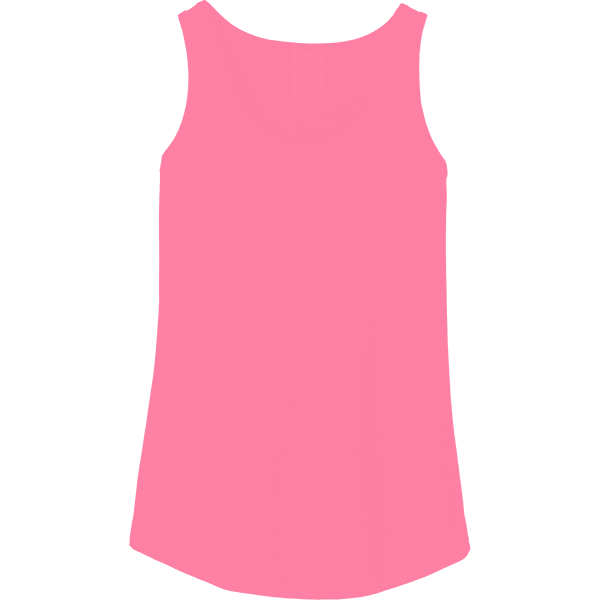
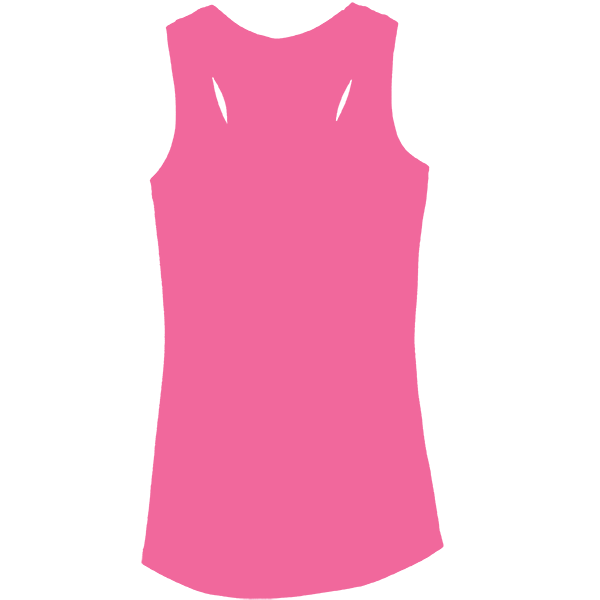
created base, highlight, shadow images for all items and added to designer

diff --git a/designer/designer.html b/designer/designer.html
@@ -117,72 +117,61 @@ git pull https://github.com/mrected/Central-Ave-Shirt-Co.git
       <div id="designer" class="fpd-shadow-2 fpd-sidebar fpd-tabs fpd-tabs-side fpd-top-actions-centered fpd-bottom-actions-centered fpd-views-inside-left fpd-grid-columns-2"">
 
         <div class="fpd-product" title="Front" data-thumbnail="../images/products/tshirtBlue.png" id="designShirt">
-          <img src="images/designerImages/tshirt-base.png" title="Base" data-parameters='{"x":500, "y":375, "colors": "#7AB9E6, #DDDCE2, #B9B9BE, #511F28, #ECB2CF, #7A212F, #7B98D8, #32383B, #549556, #293B35, #483230, #595959, #EFC358, #512B34, #483230, #3B4357, #343272, #813846, #606FC8, #D06FA3, #ACBCE2, #898687, #EEE8D4, #4B84BA, #BA5783, #AB9987, #3B4C8F, #722E39, #32306E, #C75F28, #434439, #F3DF78, #FDFDFC, #39657A, #475463, #D1D2D6, #DDE562, #DF678F, #E16F52, #7ACF65, #4B82AB, #253954","colorLinkGroup": "Base", "price": 20}'>
+          <img src="images/designerImages/tshirt-base.png" title="Base" data-parameters='{"x":500, "y":375, "colors": "#7AB9E6, #DDDCE2, #B9B9BE, #511F28, #ECB2CF, #7A212F, #7B98D8, #32383B, #549556, #293B35, #483230, #595959, #EFC358, #512B34, #483230, #3B4357, #343272, #813846, #606FC8, #D06FA3, #ACBCE2, #898687, #EEE8D4, #4B84BA, #BA5783, #AB9987, #3B4C8F, #722E39, #32306E, #C75F28, #434439, #F3DF78, #FDFDFC, #39657A, #475463, #D1D2D6, #DDE562, #DF678F, #E16F52, #7ACF65, #4B82AB, #253954","colorLinkGroup": "Base", "price": 18}'>
           <img src="images/designerImages/tshirt-highlights.png" title="Hightlights" data-parameters='{"x":500, "y":375}'>
           <img src="images/designerImages/tshirt-shadows.png" title="Shadow" data-parameters='{"x":500, "y":375}'>
             <div class="fpd-product" title="Back" data-thumbnail="../images/products/tshirtBlue-back.png">
-              <img src="images/designerImages/tshirt-back-base.png" title="Base" data-parameters='{"x":500, "y":375, "colorLinkGroup": "Base", "price": 20}'>
+              <img src="images/designerImages/tshirt-back-base.png" title="Base" data-parameters='{"x":500, "y":375, "colorLinkGroup": "Base", "price": 18}'>
               <img src="images/designerImages/tshirt-back-highlights.png" title="Hightlights" data-parameters='{"x":500, "y":375}'>
               <img src="images/designerImages/tshirt-back-shadows.png" title="Shadows" data-parameters='{"x":500, "y":375}'>
             </div>
         </div>
 
-        <div class="fpd-product" title="Front" data-thumbnail="../images/products/lsGray.png" id="designLs">
-          <img src="images/designerImages/ls-base.png" title="Base" data-parameters='{"x":500, "y":375, "colors": "#4a4b4e,#756cb3,#cea55e,#b6ccdf,#723545,#72869c,#e17097,#678b8c,#6e7072,#b34254,#824c52,#82a47b,#83bcd1,#f4f4f4","colorLinkGroup": "Base", "price": 25}'>
-          <img src="images/designerImages/ls-highlights.png" title="Hightlights" data-parameters='{"x":500, "y":375}'>
-          <img src="images/designerImages/ls-shadows.png" title="Shadow" data-parameters='{"x":500, "y":375}'>
-            <div class="fpd-product" title="Back" data-thumbnail="../images/products/lsGray.png">
-              <img src="images/designerImages/ls-back-base.png" title="Base" data-parameters='{"x":500, "y":375, "colorLinkGroup": "Base", "price": 25}'>
-              <img src="images/designerImages/ls-back-highlights.png" title="Hightlights" data-parameters='{"x":500, "y":375}'>
-              <img src="images/designerImages/ls-back-shadows.png" title="Shadows" data-parameters='{"x":500, "y":375}'>
+        <div class="fpd-product" title="Front" data-thumbnail="../images/products/ringspunRed.png" id="designRST">
+          <img src="images/designerImages/ringspun-base.png" title="Base" data-parameters='{"x":500, "y":375, "colors": "#6186D4, #F0F0F1, #523D7A, #F87B3F, #464E42, #1E2133, #FA5D85, #425F8F, #A7A5A5, #9DD54D, #FAF683, #4B8239, #A7C8E4, #94424E, #645A96, #3F4245, #404B59, #53906D, #58585C, #8F3D48, #45A1DD, #524745, #848484, #6C6D6D, #EDA342, #30544E, #523E53, #263F6D, #8B1621, #232323, #15A0C9","colorLinkGroup": "Base", "price": 20}'>
+          <img src="images/designerImages/ringspun-highlights.png" title="Hightlights" data-parameters='{"x":500, "y":375}'>
+          <img src="images/designerImages/ringspun-shadows.png" title="Shadow" data-parameters='{"x":500, "y":375}'>
+            <div class="fpd-product" title="Back" data-thumbnail="../images/products/ringspunRed-back.png">
+              <img src="images/designerImages/ringspun-back-base.png" title="Base" data-parameters='{"x":500, "y":375, "colorLinkGroup": "Base", "price": 20}'>
+              <img src="images/designerImages/ringspun-back-highlights.png" title="Hightlights" data-parameters='{"x":500, "y":375}'>
+              <img src="images/designerImages/ringspun-back-shadows.png" title="Shadows" data-parameters='{"x":500, "y":375}'>
             </div>
         </div>
 
         <div class="fpd-product" title="Front" data-thumbnail="../images/products/tankPink.png" id="designTank">
-          <img src="images/designerImages/tank-base.png" title="Base" data-parameters='{"x":500, "y":375, "colors": "#959698,#4b4949,#2a2a2a,#33384c,#487ea8,#c1fe83,#e2799e,#e4fe82,#8e293f,#4f67b0,#f4f4f4","colorLinkGroup": "Base", "price": 10}'>
+          <img src="images/designerImages/tank-base.png" title="Base" data-parameters='{"x":500, "y":375, "colors": "#F1689B, #F3F3F3, #5975C4, #CF525C, #7362A1, #566276, #989898, #4A4D4D, #54C5F5","colorLinkGroup": "Base", "price": 21}'>
           <img src="images/designerImages/tank-highlights.png" title="Hightlights" data-parameters='{"x":500, "y":375}'>
           <img src="images/designerImages/tank-shadows.png" title="Shadow" data-parameters='{"x":500, "y":375}'>
             <div class="fpd-product" title="Back" data-thumbnail="../images/products/tankPink-back.png">
-              <img src="images/designerImages/tank-back-base.png" title="Base" data-parameters='{"x":500, "y":375, "colorLinkGroup": "Base", "price": 20}'>
+              <img src="images/designerImages/tank-back-base.png" title="Base" data-parameters='{"x":500, "y":375, "colorLinkGroup": "Base", "price": 21}'>
               <img src="images/designerImages/tank-back-highlights.png" title="Hightlights" data-parameters='{"x":500, "y":375}'>
               <img src="images/designerImages/tank-back-shadows.png" title="Shadows" data-parameters='{"x":500, "y":375}'>
             </div>
         </div>
 
-        <div class="fpd-product" title="Front" data-thumbnail="../images/products/poloCoastalBlue.png" id="designPolo">
-          <img src="images/designerImages/polo-base.png" title="Base" data-parameters='{"x":500, "y":375, "colors": "#739ecb,#40252e,#4c4a4a,#394543,#303242,#e0962b,#272727,#49815c,#90a5d3,#aac977,#7c7a7a,#4a3e78,#4558a3,#9e9da7,#f4f4f4","colorLinkGroup": "Base", "price": 40}'>
-          <img src="images/designerImages/polo-highlights.png" title="Hightlights" data-parameters='{"x":500, "y":375}'>
-          <img src="images/designerImages/polo-shadows.png" title="Shadow" data-parameters='{"x":500, "y":375}'>
-            <div class="fpd-product" title="Back" data-thumbnail="../images/products/poloCoastalBlue-back.png">
-              <img src="images/designerImages/polo-back-base.png" title="Base" data-parameters='{"x":500, "y":375, "colorLinkGroup": "Base", "price": 40}'>
-              <img src="images/designerImages/polo-back-highlights.png" title="Hightlights" data-parameters='{"x":500, "y":375}'>
-              <img src="images/designerImages/polo-back-shadows.png" title="Shadows" data-parameters='{"x":500, "y":375}'>
+        <div class="fpd-product" title="Front" data-thumbnail="../images/products/triblendOrange.png" id="designTriblend">
+          <img src="images/designerImages/triblend-base.png" title="Base" data-parameters='{"x":500, "y":375, "colors": "#3F4245, #848484, #6C6D6D, #EDA342, #30544E, #523E53, #263F6D, #8B1621, #232323, #15A0C9","colorLinkGroup": "Base", "price": 22}'>
+          <img src="images/designerImages/triblend-highlights.png" title="Hightlights" data-parameters='{"x":500, "y":375}'>
+          <img src="images/designerImages/triblend-shadows.png" title="Shadow" data-parameters='{"x":500, "y":375}'>
+            <div class="fpd-product" title="Back" data-thumbnail="../images/products/triblendOrange-back.png">
+              <img src="images/designerImages/triblend-back-base.png" title="Base" data-parameters='{"x":500, "y":375, "colorLinkGroup": "Base", "price": 22}'>
+              <img src="images/designerImages/triblend-back-highlights.png" title="Hightlights" data-parameters='{"x":500, "y":375}'>
+              <img src="images/designerImages/triblend-back-shadows.png" title="Shadows" data-parameters='{"x":500, "y":375}'>
             </div>
         </div>
 
-        <div class="fpd-product" title="Front" data-thumbnail="../images/products/hatBlue.png" id="designHat">
-          <img src="images/designerImages/hat-base.png" title="Base" data-parameters='{"x":500, "y":375, "colors": "#1c1b21,#232732,#3a3a3d,#b2a186,#283246,#b42a30,#2f427fv","colorLinkGroup": "Base", "price": 10}'>
-          <img src="images/designerImages/hat-highlights.png" title="Hightlights" data-parameters='{"x":500, "y":375}'>
-          <img src="images/designerImages/hat-shadows.png" title="Shadow" data-parameters='{"x":500, "y":375}'>
-            <div class="fpd-product" title="Back" data-thumbnail="products/hatBlue-Back.png">
-              <img src="images/designerImages/hatBack-base.png" title="Base" data-parameters='{"x":500, "y":375, "colorLinkGroup": "Base", "price": 10}'>
-              <img src="images/designerImages/hatBack-highlights.png" title="Hightlights" data-parameters='{"x":500, "y":375}'>
-              <img src="images/designerImages/hatBack-shadows.png" title="Shadows" data-parameters='{"x":500, "y":375}'>
+        <div class="fpd-product" title="Front" data-thumbnail="../images/products/polyBlack.png" id="designPoly">
+          <img src="images/designerImages/poly-base.png" title="Base" data-parameters='{"x":500, "y":375, "colors": "#242424, #DDD1A3, #AA1428, #17243D, #0F7480, #D26B36, #9BA0A7, #BAA083, #493779, #E8E8E8, #CCFF34, #FF5B90, #FE5832, #632D3B, #B2DF5F, #12704D, #3B3D41, #757579, #FBB234, #263F2F, #C2481F, #5D87C5, #8E1B2C, #09A6D1, #253A92","colorLinkGroup": "Base", "price": 21}'>
+          <img src="images/designerImages/poly-highlights.png" title="Hightlights" data-parameters='{"x":500, "y":375}'>
+          <img src="images/designerImages/poly-shadows.png" title="Shadow" data-parameters='{"x":500, "y":375}'>
+            <div class="fpd-product" title="Back" data-thumbnail="products/polyBlack-Back.png">
+              <img src="images/designerImages/poly-back-base.png" title="Base" data-parameters='{"x":500, "y":375, "colorLinkGroup": "Base", "price": 21}'>
+              <img src="images/designerImages/poly-back-highlights.png" title="Hightlights" data-parameters='{"x":500, "y":375}'>
+              <img src="images/designerImages/poly-back-shadows.png" title="Shadows" data-parameters='{"x":500, "y":375}'>
             </div>
         </div>
 
         
-
-        <div class="fpd-product" title="Front" data-thumbnail="../images/products/hoodieCardinalRed.png" id="designHoodie">
-          <img src="images/designerImages/hoodie-base.png" title="Base" data-parameters='{"x":500, "y":375, "colors": "#9fa0a2,#b12e37,#4d4b4b,#3d3d3d,#39493c,#863d52,#2f2f2f,#5fa2da,#942c38,#3a4161,#4b336e,#3d4d9f,#f4f4f4","colorLinkGroup": "Base", "price": 10}'>
-          <img src="images/designerImages/hoodie-highlights.png" title="Hightlights" data-parameters='{"x":500, "y":375}'>
-          <img src="images/designerImages/hoodie-shadows.png" title="Shadow" data-parameters='{"x":500, "y":375}'>
-            <div class="fpd-product" title="Back" data-thumbnail="../images/products/hoodieCardinalRed-back.png">
-              <img src="images/designerImages/hoodie-back-base.png" title="Base" data-parameters='{"x":500, "y":375, "colorLinkGroup": "Base", "price": 20}'>
-              <img src="images/designerImages/hoodie-back-highlights.png" title="Hightlights" data-parameters='{"x":500, "y":375}'>
-              <img src="images/designerImages/hoodie-back-shadows.png" title="Shadows" data-parameters='{"x":500, "y":375}'>
-            </div>
-        </div>
 
         <div class="fpd-design">
           <div class="fpd-category" title="Design Elements">

diff --git a/catalog.html b/catalog.html
@@ -122,7 +122,7 @@ git pull https://github.com/mrected/Central-Ave-Shirt-Co.git
 
                     <div class="col-xs-10 col-xs-offset-1 col-sm-6 col-sm-offset-0 col-md-4">
                       <div class="thumbnail catalogItem">
-                        <a href="rst.html"><img src="images/products/lsGray.png" class="img-responsive"></a>
+                        <a href="rst.html"><img src="images/products/ringspunRed.png" class="img-responsive"></a>
                         <div class="caption">
                           <h3 class="text-center thumbnailTitle orangeUl">Ring Spun T</h3>
                           <p>Lorem ipsum dolor sit amet, consectetur adipisicing elit, sed do eiusmod
@@ -152,9 +152,9 @@ git pull https://github.com/mrected/Central-Ave-Shirt-Co.git
 
 
 
-                    <div class="col-xs-10 col-xs-offset-1 col-sm-6 col-sm-offset-0 col-md-4 col-md-offset-1">
+                    <div class="col-xs-10 col-xs-offset-1 col-sm-6 col-sm-offset-0 col-md-4 col-md-offset-2">
                       <div class="thumbnail catalogItem">
-                        <a href="polo.html"><img src="images/products/poloCoastalBlue.png" class="img-responsive"></a>
+                        <a href="polo.html"><img src="images/products/triblendOrange.png" class="img-responsive"></a>
                         <div class="caption">
                           <h3 class="text-center thumbnailTitle orangeUl">Athletic TriBlend</h3>
                           <p>Lorem ipsum dolor sit amet, consectetur adipisicing elit, sed do eiusmod
@@ -167,9 +167,9 @@ git pull https://github.com/mrected/Central-Ave-Shirt-Co.git
                       </div>
                     </div>
 
-                    <div class="col-xs-10 col-xs-offset-1 col-sm-6 col-sm-offset-3 col-md-4 col-md-offset-1">
+                    <div class="col-xs-10 col-xs-offset-1 col-sm-6 col-sm-offset-3 col-md-4 col-md-offset-0">
                       <div class="thumbnail catalogItem">
-                        <a href="hoodie.html"><img src="images/products/hoodieCardinalRed.png" class="img-responsive"></a>
+                        <a href="hoodie.html"><img src="images/products/polyBlack.png" class="img-responsive"></a>
                         <div class="caption">
                           <h3 class="text-center thumbnailTitle orangeUl">Poly T-Shirt</h3>
                           <p>Lorem ipsum dolor sit amet, consectetur adipisicing elit, sed do eiusmod

diff --git a/js/itemData.js b/js/itemData.js
@@ -148,9 +148,9 @@ const itemInfo = [
   // RINGSPUN -------------------------------------------------------------- DT6000
   {
     image: 'images/catImages/item_1.jpg',
-    base: 'designer/images/designerImages/tank-base.png',
-    highlights: 'designer/images/designerImages/tank-highlights.png',
-    shadows: 'designer/images/designerImages/tank-shadows.png',
+    base: 'designer/images/designerImages/ringspun-base.png',
+    highlights: 'designer/images/designerImages/ringspun-highlights.png',
+    shadows: 'designer/images/designerImages/ringspun-shadows.png',
     title: 'ringspun',
     name: 'Ring Spun T-Shirt',
     adtnlChrg: 2,
@@ -293,9 +293,9 @@ const itemInfo = [
   // TRIBLEND -------------------------------------------------------------- ST400
   {
     image: 'images/catImages/item_3.jpg',
-    base: 'designer/images/designerImages/tank-base.png',
-    highlights: 'designer/images/designerImages/tank-highlights.png',
-    shadows: 'designer/images/designerImages/tank-shadows.png',
+    base: 'designer/images/designerImages/triblend-base.png',
+    highlights: 'designer/images/designerImages/triblend-highlights.png',
+    shadows: 'designer/images/designerImages/triblend-shadows.png',
     title: 'triblendT',
     name: 'Athletic TriBlend',
     adtnlChrg: 4,
@@ -347,14 +347,14 @@ const itemInfo = [
 
   {
     image: 'images/catImages/item_4.jpg',
-    base: 'designer/images/designerImages/tank-base.png',
-    highlights: 'designer/images/designerImages/tank-highlights.png',
-    shadows: 'designer/images/designerImages/tank-shadows.png',
-    title: 'polyt',
+    base: 'designer/images/designerImages/poly-base.png',
+    highlights: 'designer/images/designerImages/poly-highlights.png',
+    shadows: 'designer/images/designerImages/poly-shadows.png',
+    title: 'poly',
     name: 'Poly T',
     adtnlChrg: 3,
-    linkAttr_design: 'polyt',
-    linkAttr_quote: 'quotePolyt',
+    linkAttr_design: 'designPoly',
+    linkAttr_quote: 'quotePoly',
     linkAttr_info: 'polyt.html',
     linkAttr_vendor: 'http://www.helinger.com/ProductResults/?SearchTerms=tank%20top',
     productImages: {

diff --git a/designer/js/callPlugin.js b/designer/js/callPlugin.js
@@ -1,4 +1,4 @@
-$(document).ready(function(){
+$(document).ready(() => {
 
 
 	//sets main item on Product Designer from Home
@@ -111,7 +111,7 @@ switch statement that takes that variable and matches corresponding div and plac
 // const mailBtn = document.getElementById('send-image-mail-php');
 // mailBtn.addEventListener('click', alert('worked'));
 
-$('#send-image-mail-php').click(function() {
+$('#send-image-mail-php').click(() => {
 
 		designer.getProductDataURL(function(dataURL) {
 			$.post( "php/send_image_via_mail.php", { base64_image: dataURL} );
@@ -120,5 +120,4 @@ $('#send-image-mail-php').click(function() {
 
 	});
 
-//see this:  http://php.net/manual/en/function.mail.php
-
+// see this:  http://php.net/manual/en/function.mail.php
